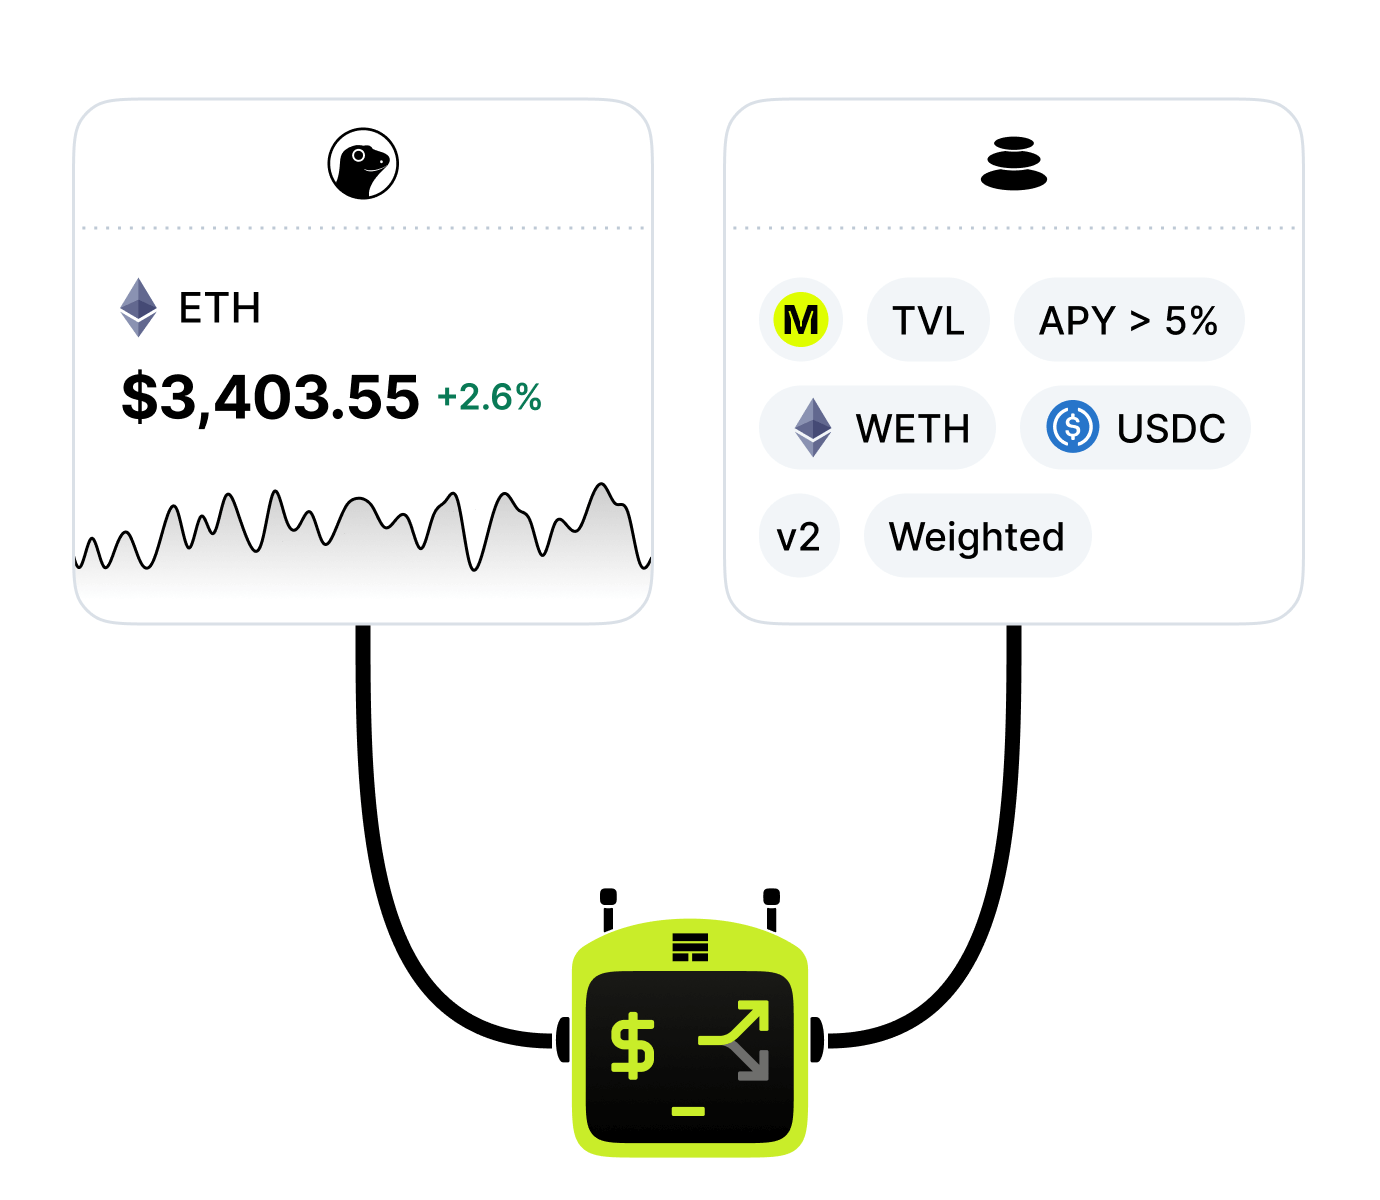
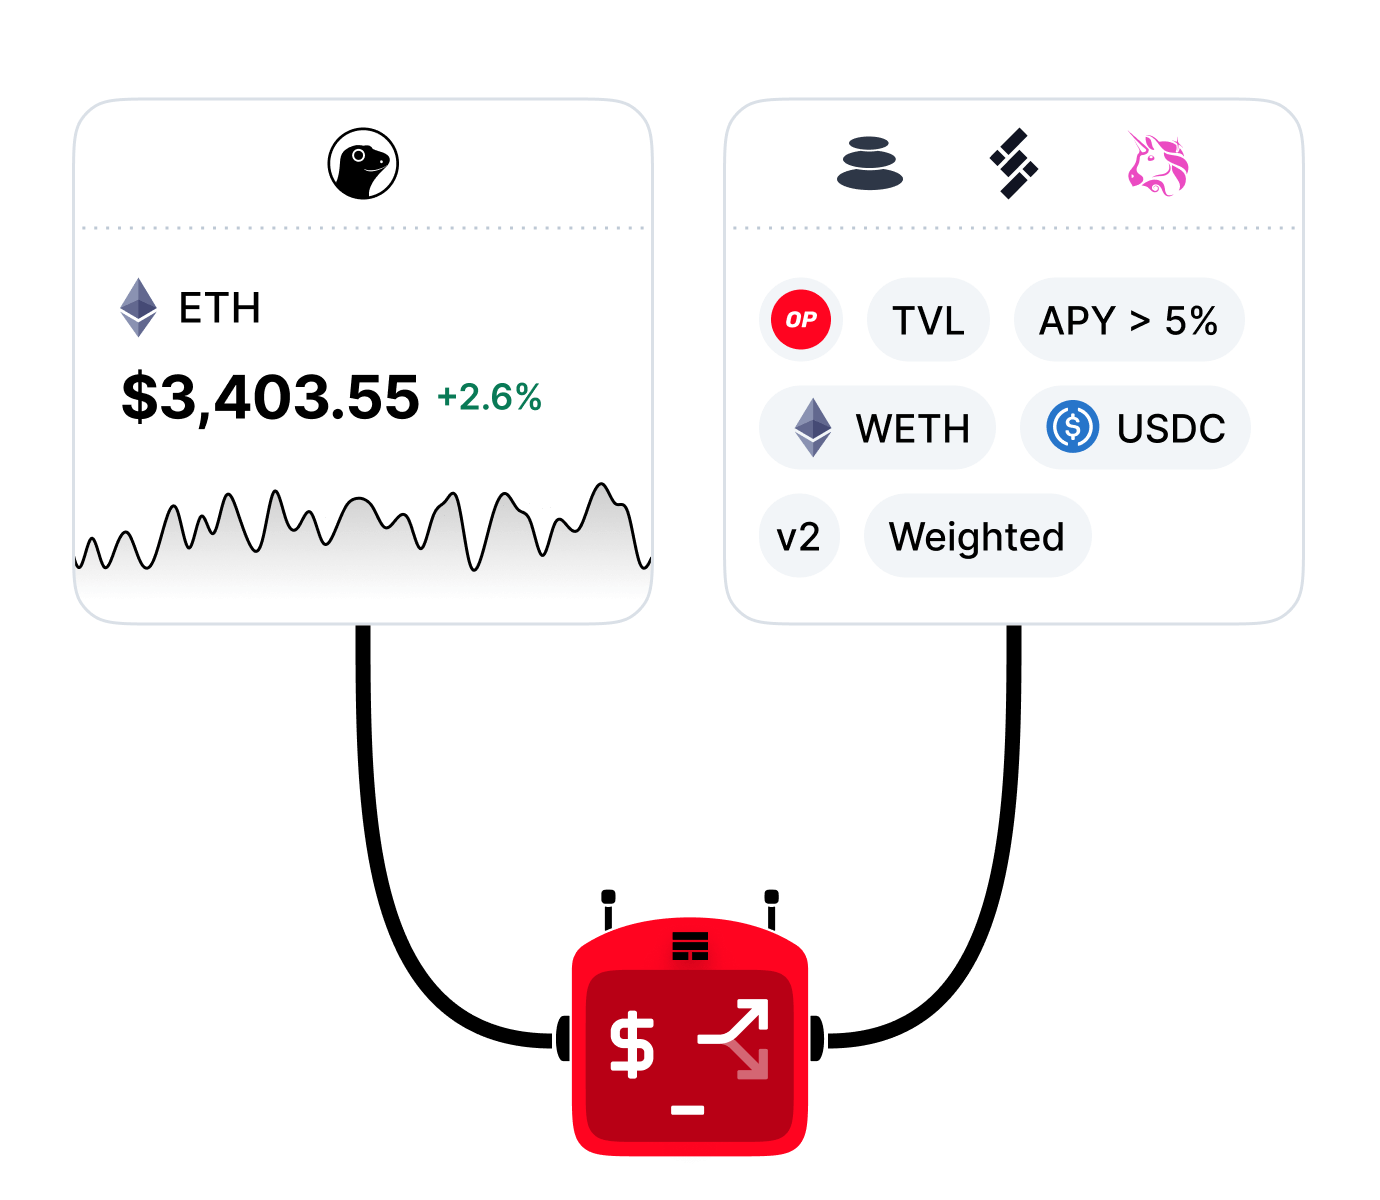
feat: update Optimus onboarding steps to include Uniswap and clarify investment requirements

diff --git a/frontend/components/SetupPage/AgentIntroduction/constants.ts b/frontend/components/SetupPage/AgentIntroduction/constants.ts
@@ -56,21 +56,20 @@ export const MODIUS_ONBOARDING_STEPS: OnboardingStep[] = [
   },
 ] as const;
 
-// TODO: Roman to send
 export const OPTIMUS_ONBOARDING_STEPS: OnboardingStep[] = [
   {
     title: 'Your AI portfolio manager',
-    desc: 'Modius collects real-time market data from CoinGecko and autonomously manages your investments using Balancer and Sturdy — delivering hands-free portfolio growth. Requires ETH and USDC on Mode as initial investments.',
+    desc: 'Optimus collects real-time market data from CoinGecko and autonomously manages your investments using Balancer, Sturdy and Uniswap — delivering hands-free portfolio growth. Requires ETH and USDC on Optimism as initial investments.',
     imgSrc: 'setup-agent-optimus-1',
   },
   {
     title: 'Choose the best strategy',
-    desc: 'Modius learns autonomously, adapts to changing market conditions, and selects the best next strategy to invest on your behalf.',
+    desc: 'Optimus learns autonomously, adapts to changing market conditions, and selects the best next strategy to invest on your behalf.',
     imgSrc: 'setup-agent-optimus-2',
   },
-  {
-    title: 'Take action',
-    desc: 'Based on its analysis and real-time market data, your Optimus agent decides when its more convenient to buy, sell, or hold specific assets.',
-    imgSrc: 'setup-agent-optimus-3',
-  },
+  // {
+  //   title: 'Take action',
+  //   desc: 'Based on its analysis and real-time market data, your Optimus agent decides when its more convenient to buy, sell, or hold specific assets.',
+  //   imgSrc: 'setup-agent-optimus-3',
+  // },
 ] as const;
